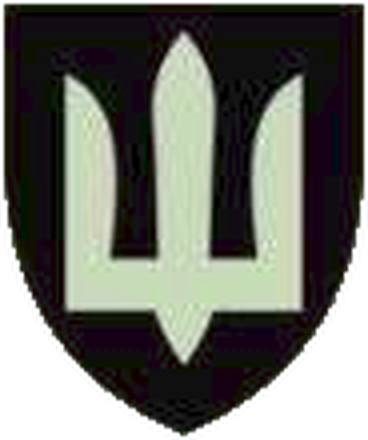
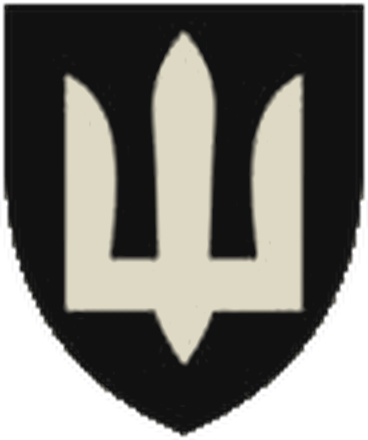
PWA: match emblem colors to card palette (remove grey JPEG tint)

Changed region(s): [[0.1793, 0.0886, 0.837, 0.8273]]

diff --git a/prototype/sw.js b/prototype/sw.js
@@ -1,5 +1,5 @@
 /* Otsrochka+ PWA service worker: offline-first app shell. */
-const CACHE = "otsrochka-v42";
+const CACHE = "otsrochka-v43";
 const ASSETS = [
   "./",
   "./index.html",
